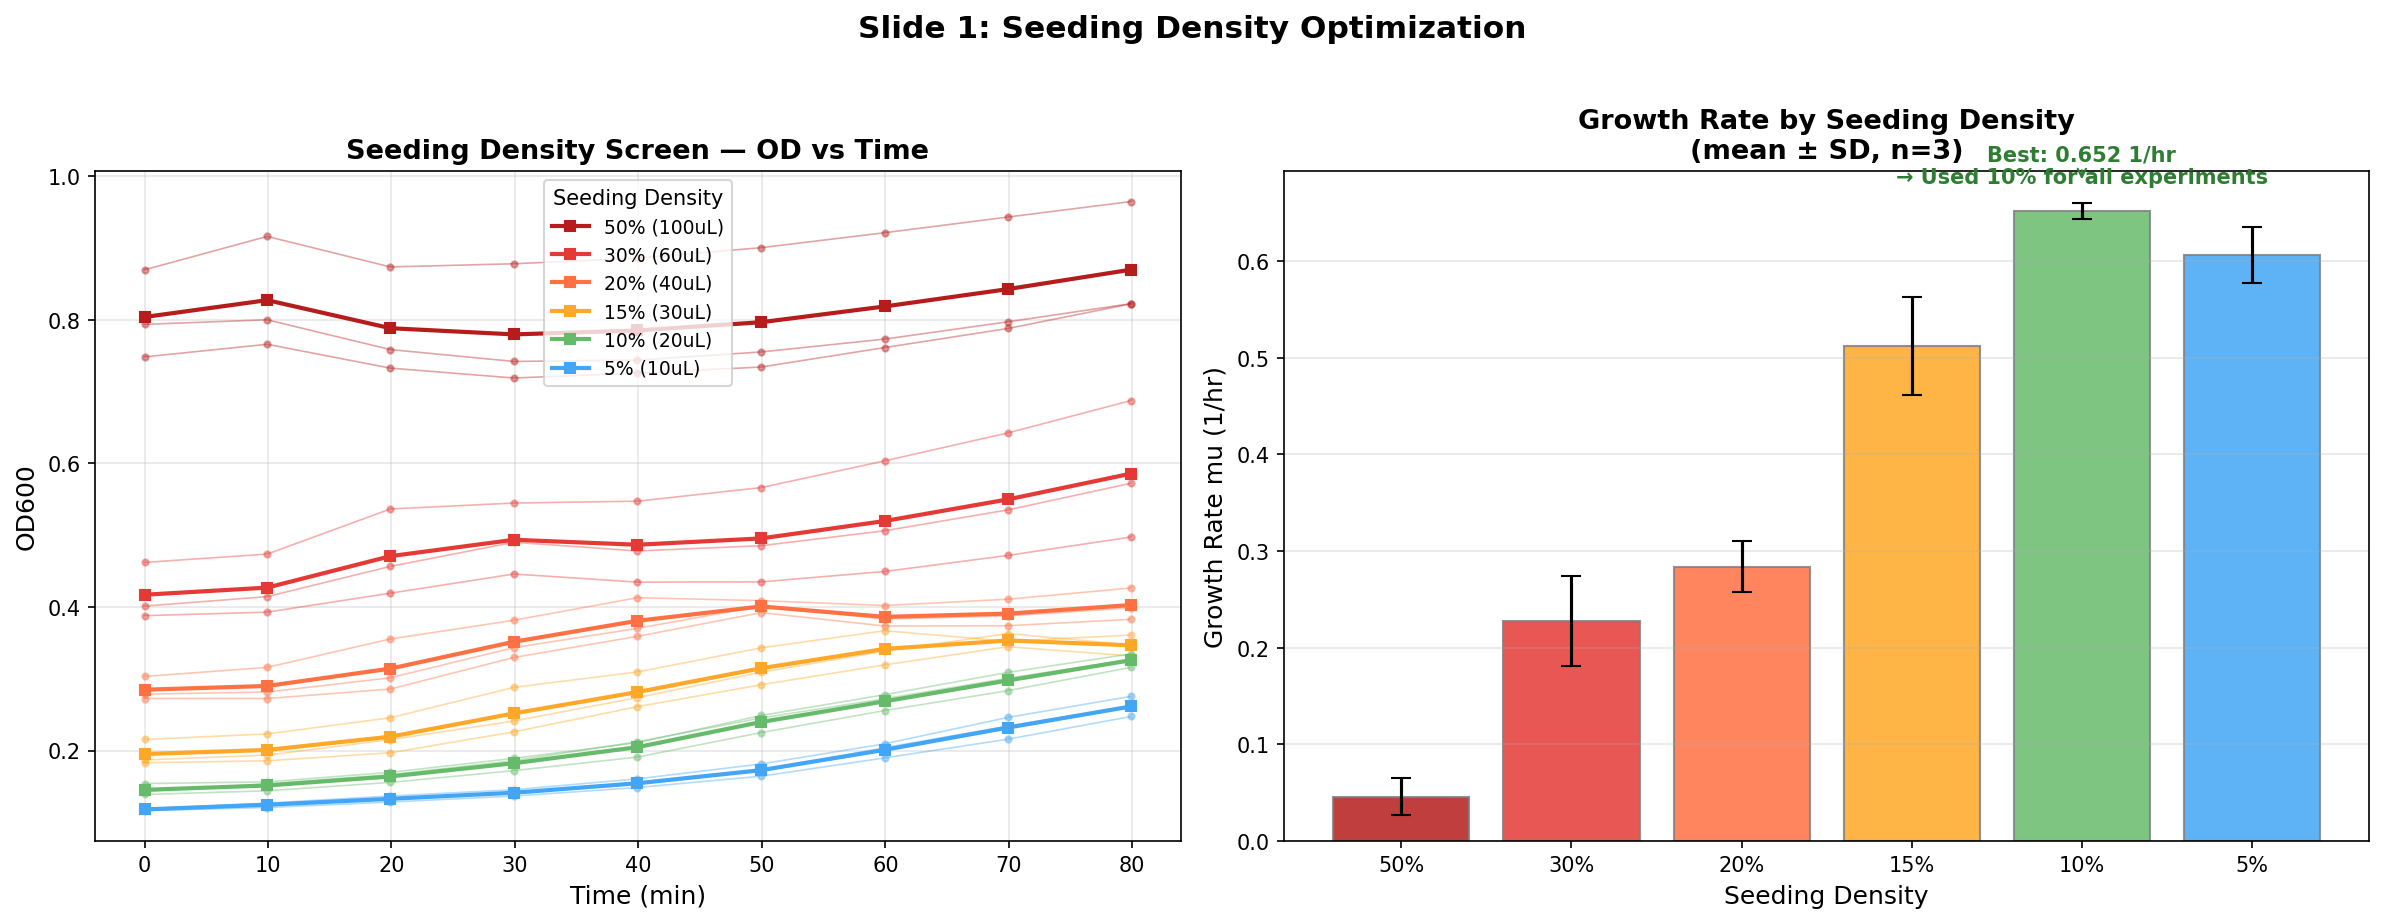
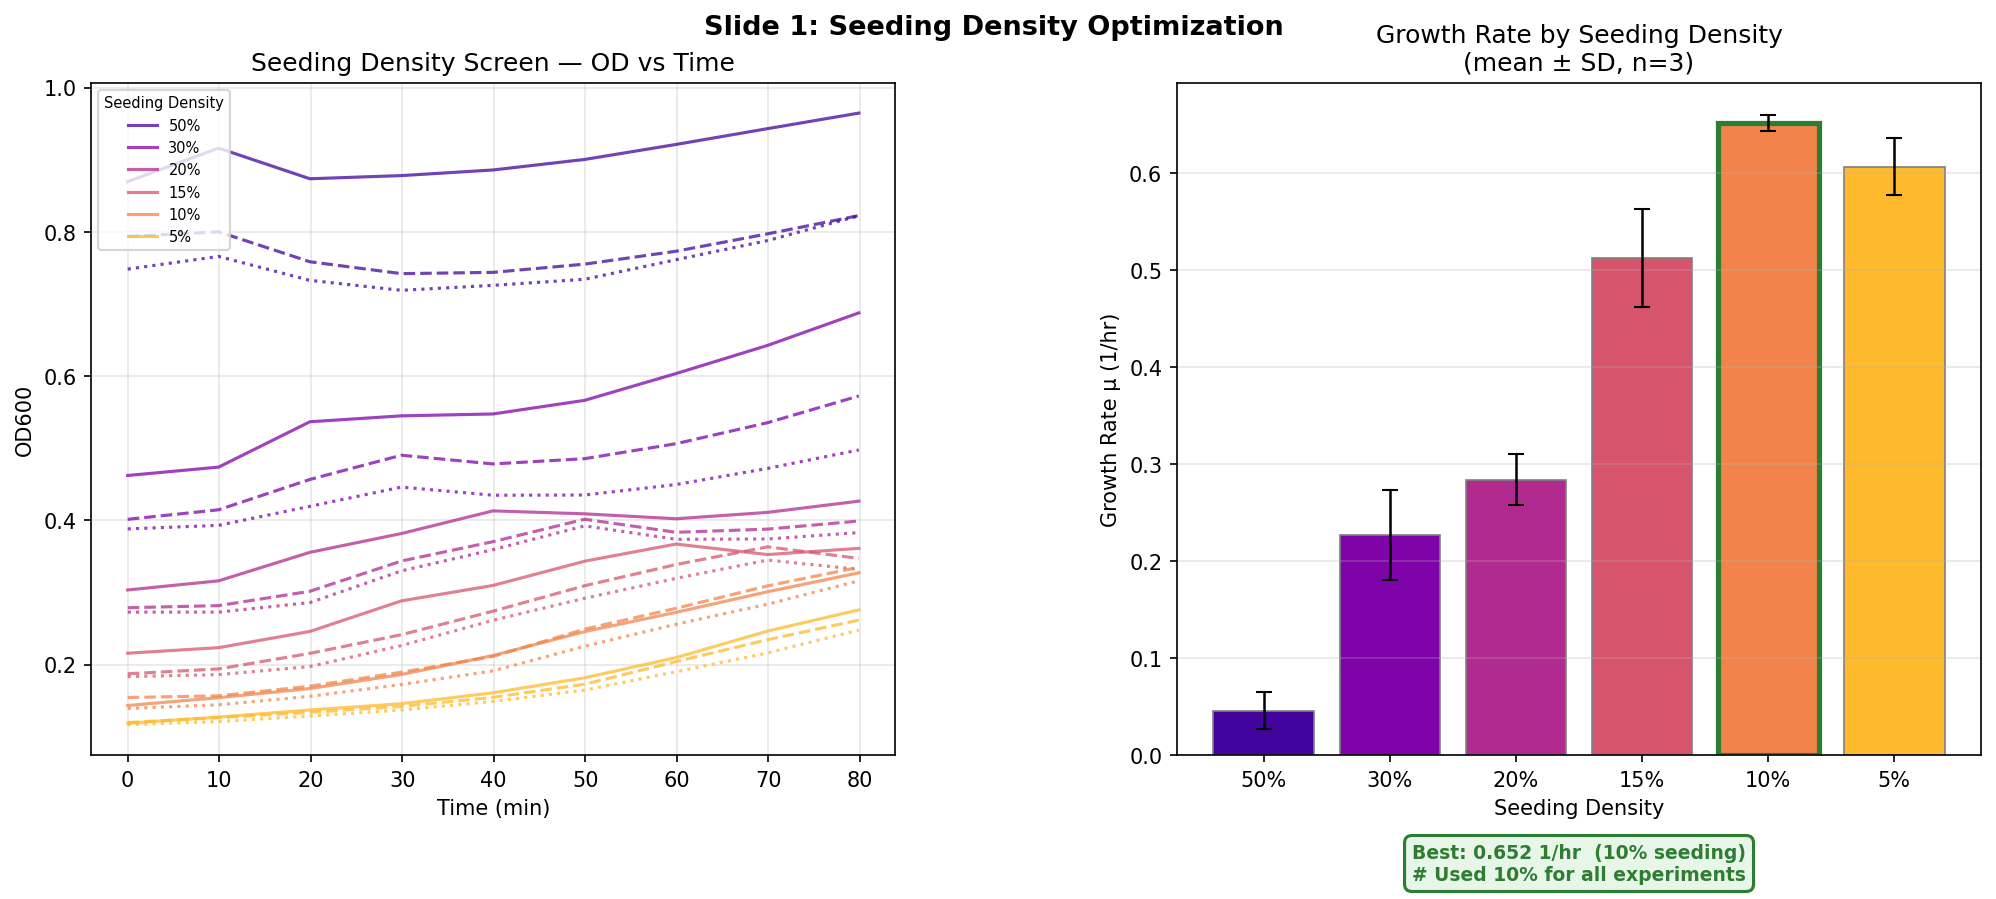
Move seeding density green annotation outside bar chart
Add generate_slide1.py which regenerates slide1_seeding_density.png
from vinatx_tutorial_plate.csv. The 'Best' and '# Used 10%' green
text is now placed in a box below the bar chart axes so it no longer
obstructs the bars.

diff --git a/scripts/generate_slide1.py b/scripts/generate_slide1.py
@@ -1,0 +1,131 @@
+"""
+Generate slide1_seeding_density.png — ViNatX Tutorial Plate analysis.
+
+Left panel:  OD600 growth curves by seeding density (raw data, all reps)
+Right panel: Growth rate (mu) bar chart, mean ± SD, n=3
+
+Green annotation is placed OUTSIDE the bar chart axes (below x-axis label).
+"""
+
+import pandas as pd
+import numpy as np
+from scipy.stats import linregress
+import matplotlib.pyplot as plt
+import matplotlib.gridspec as gridspec
+from pathlib import Path
+
+DATA_DIR = Path(__file__).parent.parent / "data"
+FIG_DIR = Path(__file__).parent.parent / "figures" / "presentation"
+FIG_DIR.mkdir(parents=True, exist_ok=True)
+
+# ── Load data ─────────────────────────────────────────────────────────────────
+
+df = pd.read_csv(DATA_DIR / "vinatx_tutorial_plate.csv", parse_dates=["timestamp"])
+df = df.sort_values("timestamp").reset_index(drop=True)
+t0 = df["timestamp"].iloc[0]
+df["minutes"] = (df["timestamp"] - t0).dt.total_seconds() / 60
+
+# ── Seeding density map ───────────────────────────────────────────────────────
+# Rows A-F, columns 2-4 (triplicates)
+# Media volume → seeding density
+vol_map = {"A": 100, "B": 140, "C": 160, "D": 170, "E": 180, "F": 190}
+conditions = {}
+for row, vol in vol_map.items():
+    seed_pct = int((200 - vol) / 200 * 100)
+    label = f"{seed_pct}%"
+    conditions[label] = [f"{row}{c}" for c in [2, 3, 4]]
+
+# ── Compute growth rates ──────────────────────────────────────────────────────
+
+def fit_mu(t_min, od_vals):
+    mask = np.isfinite(od_vals) & (od_vals > 0)
+    t = t_min[mask]
+    od = od_vals[mask]
+    if len(t) < 3:
+        return np.nan
+    slope, *_ = linregress(t / 60, np.log(od))  # convert min → hr
+    return slope
+
+results = {}
+for label, wells in conditions.items():
+    mus = []
+    for w in wells:
+        if w in df.columns:
+            mu = fit_mu(df["minutes"].values, df[w].values)
+            mus.append(mu)
+    results[label] = np.array([m for m in mus if np.isfinite(m)])
+
+labels = list(conditions.keys())
+means = np.array([results[l].mean() if len(results[l]) > 0 else np.nan for l in labels])
+stds  = np.array([results[l].std()  if len(results[l]) > 1 else 0.0 for l in labels])
+
+best_label = labels[np.nanargmax(means)]
+best_mu    = np.nanmax(means)
+
+# ── Figure ────────────────────────────────────────────────────────────────────
+
+# Extra bottom margin for the green annotation outside the bar chart
+fig = plt.figure(figsize=(14, 6.5))
+fig.suptitle("Slide 1: Seeding Density Optimization", fontsize=13, fontweight="bold", y=0.98)
+
+gs = gridspec.GridSpec(1, 2, figure=fig, wspace=0.35,
+                       left=0.07, right=0.97, top=0.91, bottom=0.22)
+
+ax_curves = fig.add_subplot(gs[0])
+ax_bars   = fig.add_subplot(gs[1])
+
+# ── Left: OD vs Time ─────────────────────────────────────────────────────────
+colors = plt.cm.plasma(np.linspace(0.1, 0.85, len(conditions)))
+
+for i, (label, wells) in enumerate(conditions.items()):
+    for j, w in enumerate(wells):
+        if w in df.columns:
+            ax_curves.plot(df["minutes"], df[w],
+                           color=colors[i],
+                           linestyle=["-", "--", ":"][j],
+                           alpha=0.75,
+                           label=label if j == 0 else None)
+
+ax_curves.set_xlabel("Time (min)")
+ax_curves.set_ylabel("OD600")
+ax_curves.set_title("Seeding Density Screen — OD vs Time")
+ax_curves.legend(fontsize=7, title="Seeding Density", title_fontsize=7, loc="upper left")
+ax_curves.grid(True, alpha=0.3)
+
+# ── Right: Growth Rate bar chart ──────────────────────────────────────────────
+bar_colors = plt.cm.plasma(np.linspace(0.1, 0.85, len(labels)))
+bars = ax_bars.bar(labels, means, yerr=stds, capsize=4,
+                   color=bar_colors, edgecolor="gray", linewidth=0.8,
+                   error_kw=dict(ecolor="black", elinewidth=1.2))
+
+ax_bars.set_xlabel("Seeding Density")
+ax_bars.set_ylabel("Growth Rate µ (1/hr)")
+ax_bars.set_title("Growth Rate by Seeding Density\n(mean ± SD, n=3)")
+ax_bars.grid(True, axis="y", alpha=0.3)
+
+# Highlight best bar
+best_idx = labels.index(best_label)
+bars[best_idx].set_edgecolor("#2E7D32")
+bars[best_idx].set_linewidth(2.5)
+
+# Green annotation OUTSIDE the axes — placed in figure coordinates below the bar chart
+ax_bars_bbox = ax_bars.get_position()
+
+# Two lines below the bar chart axes
+annotation = (
+    f"Best: {best_mu:.3f} 1/hr  ({best_label} seeding)\n"
+    "# Used 10% for all experiments"
+)
+fig.text(
+    ax_bars_bbox.x0 + ax_bars_bbox.width / 2,
+    0.13,
+    annotation,
+    ha="center", va="top",
+    fontsize=9, color="#2E7D32", fontweight="bold",
+    bbox=dict(boxstyle="round,pad=0.4", facecolor="#E8F5E9",
+              edgecolor="#2E7D32", linewidth=1.5),
+)
+
+fig.savefig(FIG_DIR / "slide1_seeding_density.png", dpi=150, bbox_inches="tight")
+plt.close(fig)
+print(f"Saved {FIG_DIR / 'slide1_seeding_density.png'}")
